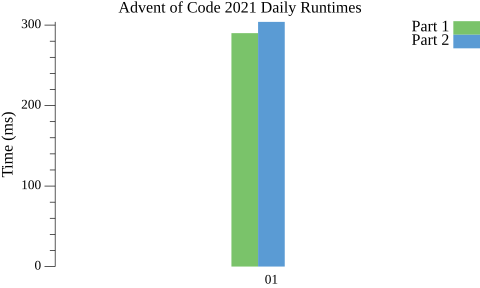
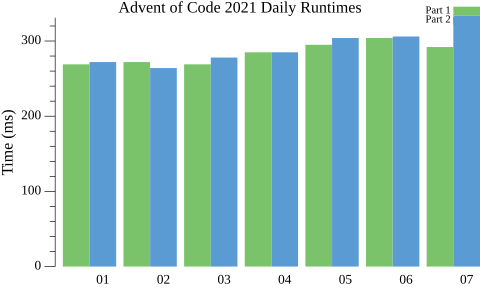
Time days 1-7

diff --git a/year_2021/day_04/game.go b/year_2021/day_04/game.go
@@ -11,17 +11,17 @@ type BingoGame struct {
 
 func (game BingoGame) PlayGame() {
 	// For each drawn number, play a round
-	for round, drawnNumber := range game.DrawNumbers {
-		fmt.Printf("Round %v, Drawing: %v\n", round, drawnNumber)
+	for _, drawnNumber := range game.DrawNumbers {
+		// fmt.Printf("Round %v, Drawing: %v\n", round, drawnNumber)
 		done, answer, _ := game.PlayRound(drawnNumber)
 		// If done, print answer, otherwise continue game
 		if done {
 			fmt.Printf("Result: %v\n", answer)
 			return
 		}
-		game.PrintGame()
+		// game.PrintGame()
 	}
-	fmt.Println("NO WINNER")
+	// fmt.Println("NO WINNER")
 }
 
 // Returns (if done or not, answer, winner indexes)
@@ -40,7 +40,7 @@ func (game BingoGame) PlayRound(drawnNumber int) (bool, int, []int) {
 		winner, answer := board.IsWinner()
 		if winner {
 			result = answer * drawnNumber
-			fmt.Printf("Sum: %v, Drawn number: %v, Result: %v\n", answer, drawnNumber, result)
+			// fmt.Printf("Sum: %v, Drawn number: %v, Result: %v\n", answer, drawnNumber, result)
 			boardIndex = append(boardIndex, i)
 			anyWinner = true
 		}
@@ -69,8 +69,8 @@ func (game BingoGame) RemoveBoards(boardsIndexes []int) []BingoBoard {
 func (game BingoGame) PlayForLastWinner() {
 	// initialNumBoards := len(game.Boards)
 	// For each drawn number, play a round
-	for round, drawnNumber := range game.DrawNumbers {
-		fmt.Printf("Round %v, Drawing: %v\n", round, drawnNumber)
+	for _, drawnNumber := range game.DrawNumbers {
+		// fmt.Printf("Round %v, Drawing: %v\n", round, drawnNumber)
 		winner, answer, boardIndexes := game.PlayRound(drawnNumber)
 		// If done, check win conditions, otherwise continue game
 		if winner && len(game.Boards) == 1 {
@@ -78,12 +78,12 @@ func (game BingoGame) PlayForLastWinner() {
 			fmt.Printf("Result: %v\n", answer)
 			return
 		} else if len(boardIndexes) > 0 {
-			fmt.Printf("Removing boards %v\n", boardIndexes)
+			// fmt.Printf("Removing boards %v\n", boardIndexes)
 			game.Boards = game.RemoveBoards(boardIndexes)
 		}
-		game.PrintGame()
+		// game.PrintGame()
 	}
-	fmt.Println("NO WINNER")
+	// fmt.Println("NO WINNER")
 }
 
 func (game BingoGame) PrintGame() {

diff --git a/year_2021/day_03/part2/part2.go b/year_2021/day_03/part2/part2.go
@@ -10,20 +10,20 @@ import (
 )
 
 func getRating(binaryLines [][]int, mostCommon bool) int64 {
-	fmt.Printf("in get rating\n")
-	day03.PrintBinaryLines(binaryLines)
+	// fmt.Printf("in get rating\n")
+	// day03.PrintBinaryLines(binaryLines)
 	cols := len(binaryLines[0])
 	for i := 0; i < cols; i++ {
-		fmt.Printf("i: %v\n", i)
+		// fmt.Printf("i: %v\n", i)
 		if len(binaryLines) <= 1 {
 			return day03.BinaryIntArrToInt64(binaryLines[0])
 		}
 		commonBit := day03.CommonBit(binaryLines, mostCommon, i)
-		fmt.Printf("Common bit: %v\n", commonBit)
+		// fmt.Printf("Common bit: %v\n", commonBit)
 		binaryLines = day03.Keep(binaryLines, int(commonBit), i)
-		fmt.Printf("Keep:\n")
-		day03.PrintBinaryLines(binaryLines)
-		fmt.Print("\n")
+		// fmt.Printf("Keep:\n")
+		// day03.PrintBinaryLines(binaryLines)
+		// fmt.Print("\n")
 	}
 	return day03.BinaryIntArrToInt64(binaryLines[0])
 }
@@ -38,7 +38,7 @@ func main() {
 	if err != nil {
 		log.Fatalf("readLines: %s", err)
 	}
-	utils.PrintStringSlice(lines)
+	// utils.PrintStringSlice(lines)
 
 	var binaryLines [][]int
 	for _, l := range lines {
@@ -52,9 +52,9 @@ func main() {
 		}
 		binaryLines = append(binaryLines, introw)
 	}
-	fmt.Print("Binary lines: \n")
-	day03.PrintBinaryLines(binaryLines)
-	fmt.Print("\n")
+	// fmt.Print("Binary lines: \n")
+	// day03.PrintBinaryLines(binaryLines)
+	// fmt.Print("\n")
 
 	// var oxygenLines [][]int
 	// copy(oxygenLines, binaryLines)

diff --git a/year_2021/day_07/part2/part2.go b/year_2021/day_07/part2/part2.go
@@ -4,6 +4,7 @@ import (
 	"fmt"
 	"math"
 	"os"
+	"sort"
 	day07 "year_2021/day_07"
 )
 
@@ -14,30 +15,32 @@ func main() {
 		return
 	}
 	crabs := day07.ReadInput(os.Args[1])
-	fmt.Printf("Input: %v\n", crabs)
-
-	maxDist := 0
-	for _, crab := range crabs {
-		if crab > maxDist {
-			maxDist = crab
-		}
-	}
-	fmt.Printf("Max dist: %v\n", maxDist)
+	sort.Ints(crabs)
+	// fmt.Printf("Input: %v\n", crabs)
+	maxDist := crabs[len(crabs)-1]
+	// fmt.Printf("Max dist: %v\n", maxDist)
 
 	minCost := 999999999
 	// For each possible distance, compute the cost
 	for dist := 0; dist < maxDist; dist++ {
 		cost := 0
+		tooExpensive := false
 		for _, crab := range crabs {
 			crabCost := int(math.Abs(float64(dist - crab)))
-			for i := 0; i <= crabCost; i++ {
-				cost += i
+			// for i := 0; i <= crabCost; i++ {
+			// 	cost += i
+			// }
+			// use sum of integers formula instead of loop to save time
+			cost += int(float64((crabCost+1)*crabCost) / 2)
+			if cost > minCost {
+				tooExpensive = true
+				break
 			}
 		}
-		if cost < minCost {
+		if !tooExpensive && cost < minCost {
 			minCost = cost
 		}
-		fmt.Printf("Dist: %v, Cost: %v\n", dist, cost)
+		// fmt.Printf("Dist: %v, Cost: %v\n", dist, cost)
 	}
 
 	fmt.Printf("Min cost: %v\n", minCost)

diff --git a/year_2021/analysis/time.go b/year_2021/analysis/time.go
@@ -63,6 +63,8 @@ func Chart(dayLabels []string, part1Times []float64, part2Times []float64) {
 	p.Legend.Add("Part 1", barsA)
 	p.Legend.Add("Part 2", barsB)
 	p.Legend.Top = true
+	p.Legend.TextStyle.Font.Size = 8
+	p.Legend.YOffs = 10
 
 	p.NominalX(dayLabels...)
 
@@ -78,16 +80,16 @@ func main() {
 		log.Println(err)
 	}
 	basePath = strings.TrimSuffix(basePath, "analysis")
-	fmt.Println(basePath)
+	// fmt.Println(basePath)
 
-	days := 1
+	days := 7
 
 	var dayLabels []string
 	var part1Times []float64
 	var part2Times []float64
 	for i := 1; i <= days; i++ {
 		dayPath := fmt.Sprintf("%v/day_%02d", basePath, i)
-		fmt.Println(dayPath)
+		// fmt.Println(dayPath)
 		part1Path := fmt.Sprintf("%v/part1/part1.go", dayPath)
 		part2Path := fmt.Sprintf("%v/part2/part2.go", dayPath)
 		inputPath := fmt.Sprintf("%v/input.txt", dayPath)
@@ -100,7 +102,7 @@ func main() {
 		part1Times = append(part1Times, float64(part1Time.Milliseconds()))
 		part2Times = append(part2Times, float64(part2Time.Milliseconds()))
 
-		fmt.Printf("Day %02d part1: %v, part2: %v\n", i, part1Time, part2Time)
+		fmt.Printf("Day %02d part1: %v, part2: %v\n\n", i, part1Time, part2Time)
 	}
 	Chart(dayLabels, part1Times, part2Times)
 

diff --git a/year_2021/day_07/part1/part1.go b/year_2021/day_07/part1/part1.go
@@ -4,6 +4,7 @@ import (
 	"fmt"
 	"math"
 	"os"
+	"sort"
 	day07 "year_2021/day_07"
 )
 
@@ -14,27 +15,27 @@ func main() {
 		return
 	}
 	crabs := day07.ReadInput(os.Args[1])
-	fmt.Printf("Input: %v\n", crabs)
-
-	maxDist := 0
-	for _, crab := range crabs {
-		if crab > maxDist {
-			maxDist = crab
-		}
-	}
-	fmt.Printf("Max dist: %v\n", maxDist)
+	sort.Ints(crabs)
+	// fmt.Printf("Input: %v\n", crabs)
+	maxDist := crabs[len(crabs)-1]
+	// fmt.Printf("Max dist: %v\n", maxDist)
 
 	minCost := 9999999
 	// For each possible distance, compute the cost
 	for dist := 0; dist < maxDist; dist++ {
 		cost := 0
+		tooExpensive := false
 		for _, crab := range crabs {
 			cost += int(math.Abs(float64(dist - crab)))
+			if cost > minCost {
+				tooExpensive = true
+				break
+			}
 		}
-		if cost < minCost {
+		if !tooExpensive && cost < minCost {
 			minCost = cost
 		}
-		fmt.Printf("Dist: %v, Cost: %v\n", dist, cost)
+		// fmt.Printf("Dist: %v, Cost: %v\n", dist, cost)
 	}
 
 	fmt.Printf("Min cost: %v\n", minCost)

diff --git a/year_2021/day_05/utils.go b/year_2021/day_05/utils.go
@@ -65,7 +65,7 @@ func (l LineSegment) GeneratePoints(includeDiagonal bool) []Point {
 	currX := l.a.x
 	currY := l.a.y
 
-	rise, run, slope, err := l.Slope()
+	_, _, slope, err := l.Slope()
 	if err != nil {
 		// Undefined slope means it's a vertical line
 		if l.b.y-l.a.y < 0 {
@@ -105,14 +105,14 @@ func (l LineSegment) GeneratePoints(includeDiagonal bool) []Point {
 			}
 		}
 	}
-	fmt.Printf("Line segment %v, rise: %v, run: %v, slope: %v-%v\n", l, rise, run, slope, err)
+	// fmt.Printf("Line segment %v, rise: %v, run: %v, slope: %v-%v\n", l, rise, run, slope, err)
 
 	return points
 }
 
 func (l LineSegment) Chart(grid [][]int, includeDiagonal bool) {
 	points := l.GeneratePoints(includeDiagonal)
-	fmt.Printf("Line segment %v; Generated points: %v\n", l, points)
+	// fmt.Printf("Line segment %v; Generated points: %v\n", l, points)
 	for _, point := range points {
 		grid[point.y][point.x] += 1
 	}

diff --git a/year_2021/day_06/part2/part2.go b/year_2021/day_06/part2/part2.go
@@ -21,7 +21,7 @@ func main() {
 		return
 	}
 	fish := day06.ReadInput(os.Args[1])
-	fmt.Printf("Input: %v\n", fish)
+	// fmt.Printf("Input: %v\n", fish)
 
 	numDays := 256
 	spawnDays := 6
@@ -40,8 +40,8 @@ func main() {
 		fishMap[f] += 1
 	}
 
-	fmt.Printf("Spawn keys: %v", spawnKeys)
-	fmt.Printf("Initial size: %v, %v\n", countFish(fishMap), fishMap)
+	// fmt.Printf("Spawn keys: %v", spawnKeys)
+	// fmt.Printf("Initial size: %v, %v\n", countFish(fishMap), fishMap)
 	for day := 1; day <= numDays; day++ {
 		newMap := make(map[int]int)
 		for spawn := range fishMap {

diff --git a/year_2021/day_05/part1/part1.go b/year_2021/day_05/part1/part1.go
@@ -13,11 +13,11 @@ func main() {
 		return
 	}
 	lines := day05.ReadInput(os.Args[1])
-	fmt.Printf("Input: %v\n", lines)
+	// fmt.Printf("Input: %v\n", lines)
 
 	_, maxx, _, maxy := day05.FindMinMaxCoords(lines)
 
-	fmt.Printf("maxx: %v, maxy: %v", maxx, maxy)
+	// fmt.Printf("maxx: %v, maxy: %v", maxx, maxy)
 	grid := make([][]int, maxx+2)
 	for i := range grid {
 		grid[i] = make([]int, maxy+2)

diff --git a/year_2021/day_05/part2/part2.go b/year_2021/day_05/part2/part2.go
@@ -13,11 +13,11 @@ func main() {
 		return
 	}
 	lines := day05.ReadInput(os.Args[1])
-	fmt.Printf("Input: %v\n", lines)
+	// fmt.Printf("Input: %v\n", lines)
 
 	_, maxx, _, maxy := day05.FindMinMaxCoords(lines)
 
-	fmt.Printf("maxx: %v, maxy: %v", maxx, maxy)
+	// fmt.Printf("maxx: %v, maxy: %v", maxx, maxy)
 	grid := make([][]int, maxx+2)
 	for i := range grid {
 		grid[i] = make([]int, maxy+2)

diff --git a/year_2021/day_06/part1/part1.go b/year_2021/day_06/part1/part1.go
@@ -13,7 +13,7 @@ func main() {
 		return
 	}
 	fish := day06.ReadInput(os.Args[1])
-	fmt.Printf("Input: %v\n", fish)
+	// fmt.Printf("Input: %v\n", fish)
 
 	numDays := 80
 	spawnDays := 6
@@ -30,7 +30,7 @@ func main() {
 				fish[i] -= 1
 			}
 		}
-		fmt.Printf("After %v day: %v\n", day, fish)
+		// fmt.Printf("After %v day: %v\n", day, fish)
 	}
 
 	fmt.Printf("Result: %v\n", len(fish))

diff --git a/year_2021/day_04/bingoBoard.go b/year_2021/day_04/bingoBoard.go
@@ -51,8 +51,8 @@ func (board BingoBoard) CheckDrawnNumber(drawnNumber int) {
 }
 
 func (board BingoBoard) SumUnmarked() int {
-	fmt.Print("WINNER: \n")
-	board.PrintBoard()
+	// fmt.Print("WINNER: \n")
+	// board.PrintBoard()
 	sum := 0
 	for _, row := range board.Board {
 		for _, item := range row {

diff --git a/year_2021/day_03/part1/part1.go b/year_2021/day_03/part1/part1.go
@@ -19,7 +19,7 @@ func main() {
 	if err != nil {
 		log.Fatalf("readLines: %s", err)
 	}
-	utils.PrintStringSlice(lines)
+	// utils.PrintStringSlice(lines)
 
 	var binaryLines [][]int
 	for _, l := range lines {
